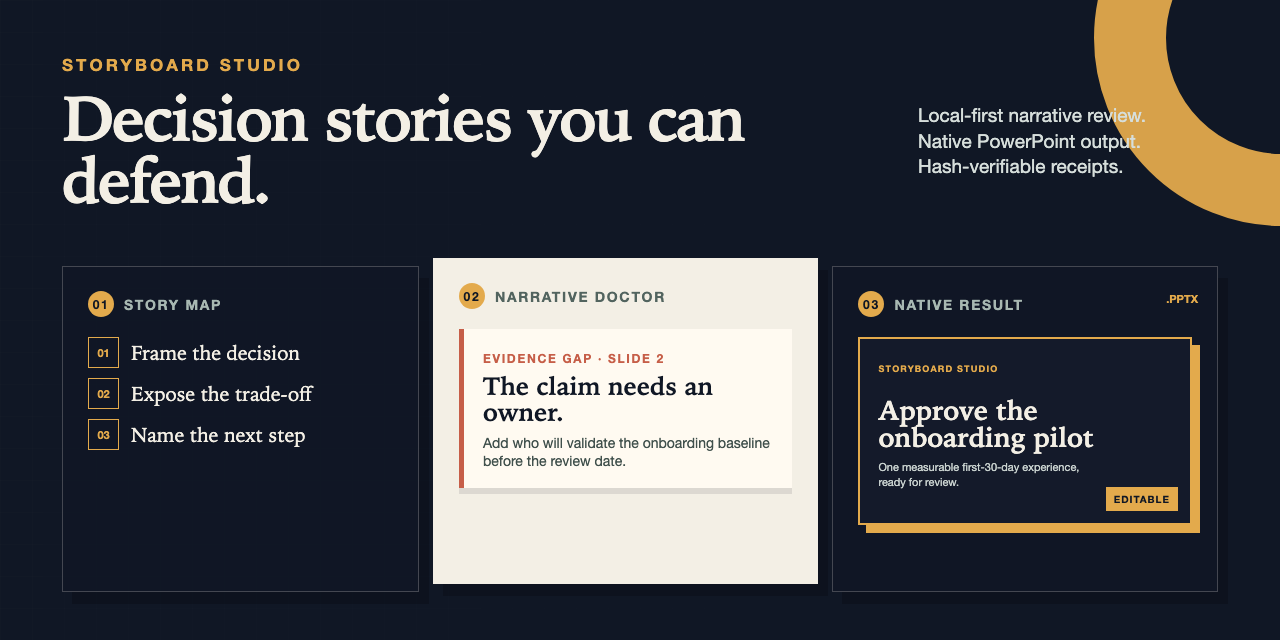
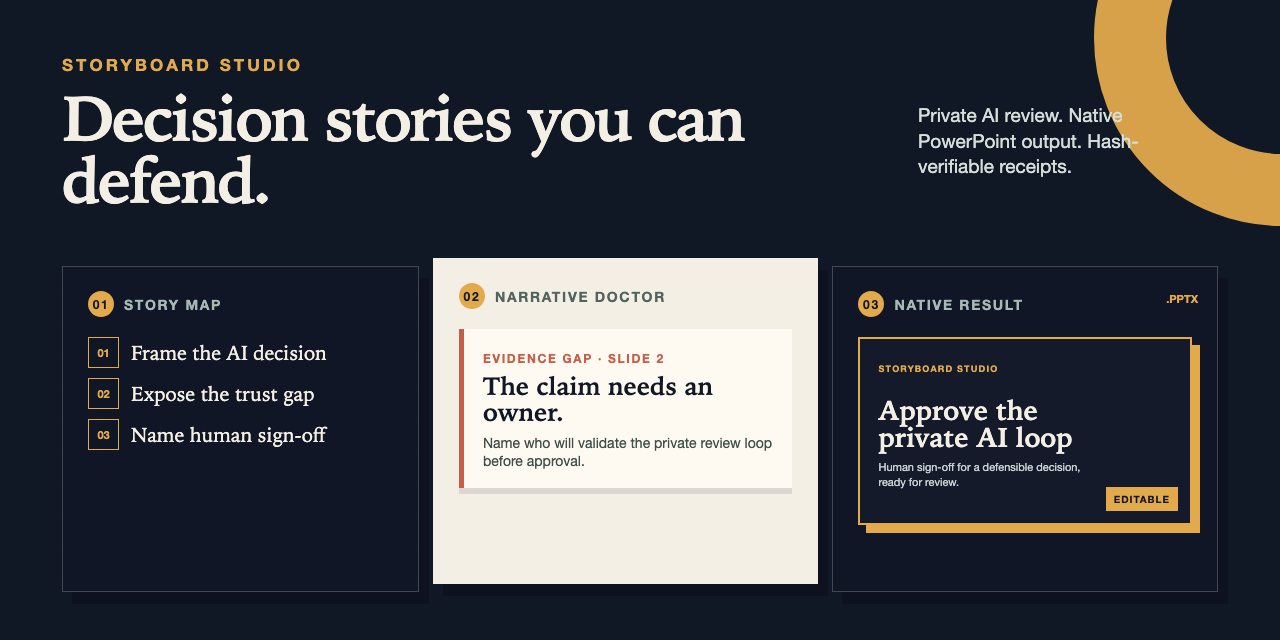
docs: align social preview with private AI flow

diff --git a/docs/assets/social-preview.html b/docs/assets/social-preview.html
@@ -259,15 +259,15 @@
         <p class="eyebrow">Storyboard Studio</p>
         <h1>Decision stories you can defend.</h1>
       </div>
-      <p class="promise">Local-first narrative review. Native PowerPoint output. Hash-verifiable receipts.</p>
+      <p class="promise">Private AI review. Native PowerPoint output. Hash-verifiable receipts.</p>
     </header>
 
     <section class="proof" aria-label="Story map to Narrative Doctor to editable PowerPoint workflow">
       <article class="panel">
         <div class="step"><span class="number">01</span> Story map</div>
-        <div class="story-row"><b>01</b><span>Frame the decision</span></div>
-        <div class="story-row"><b>02</b><span>Expose the trade-off</span></div>
-        <div class="story-row"><b>03</b><span>Name the next step</span></div>
+        <div class="story-row"><b>01</b><span>Frame the AI decision</span></div>
+        <div class="story-row"><b>02</b><span>Expose the trust gap</span></div>
+        <div class="story-row"><b>03</b><span>Name human sign-off</span></div>
       </article>
 
       <article class="panel">
@@ -275,7 +275,7 @@
         <div class="finding">
           <span class="severity">Evidence gap · Slide 2</span>
           <h2>The claim needs an owner.</h2>
-          <p>Add who will validate the onboarding baseline before the review date.</p>
+          <p>Name who will validate the private review loop before approval.</p>
         </div>
       </article>
 
@@ -284,8 +284,8 @@
         <span class="footer-note">.PPTX</span>
         <div class="pptx">
           <small>STORYBOARD STUDIO</small>
-          <h2>Approve the onboarding pilot</h2>
-          <p>One measurable first-30-day experience, ready for review.</p>
+          <h2>Approve the private AI loop</h2>
+          <p>Human sign-off for a defensible decision, ready for review.</p>
         </div>
       </article>
     </section>
